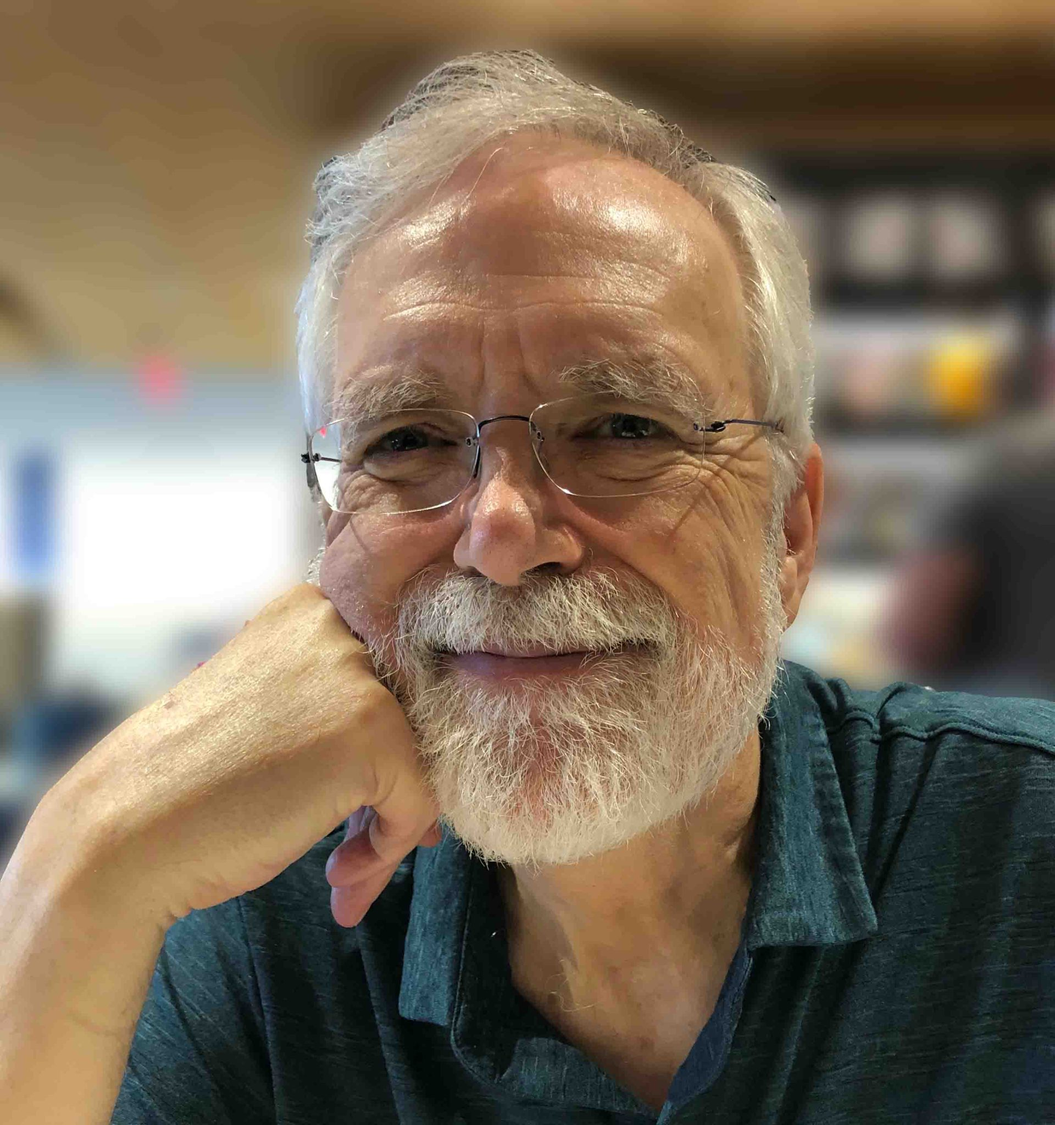
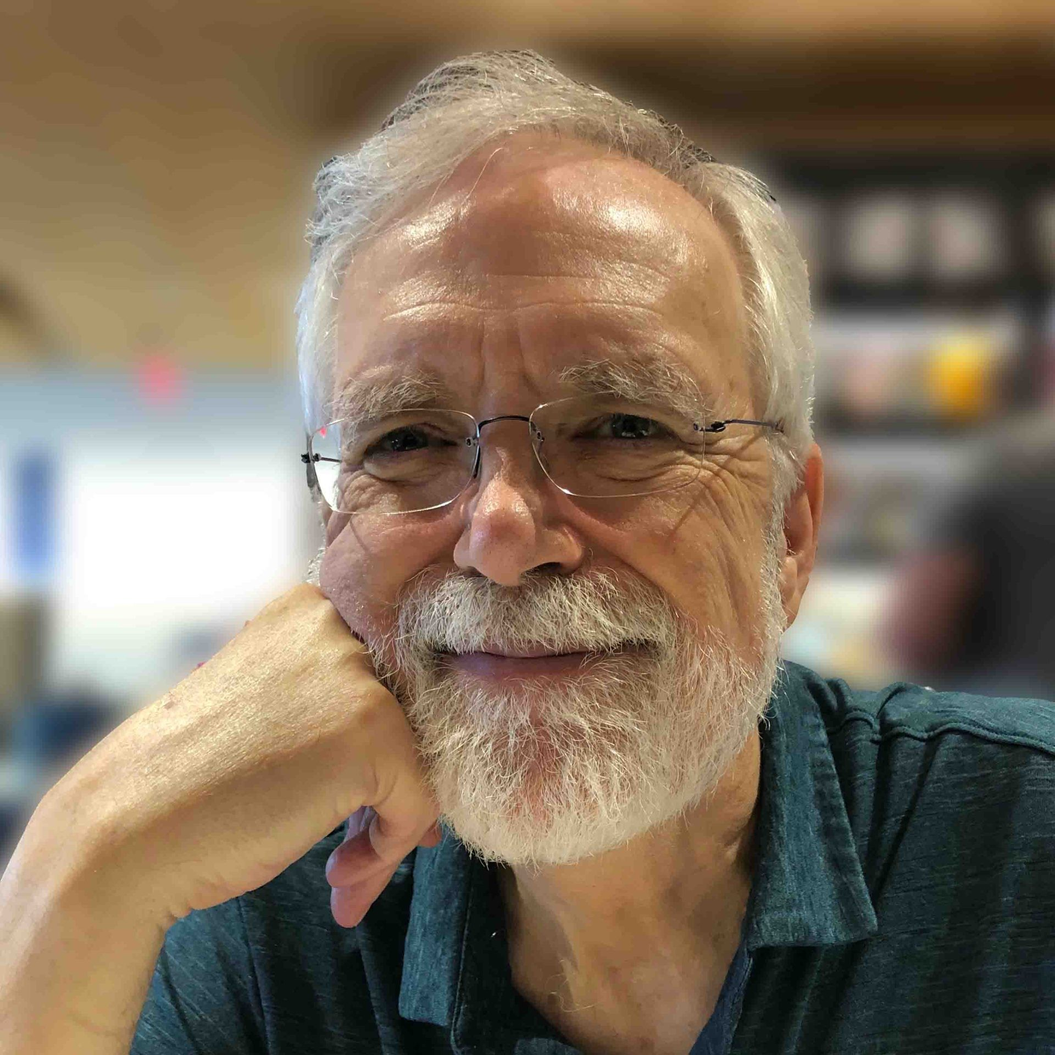
Add panelists, images

diff --git a/_includes/project-card.html b/_includes/project-card.html
@@ -1,4 +1,12 @@
 
+<style>
+.project-img { 
+    border-radius: 50%; 
+    width: 100%;
+    height: 100%;
+}
+</style>
+
 {% assign project = include.project %}
 
 {% if project.link %}
@@ -8,17 +16,15 @@
 {% endif %}
 <div class="card">
     <div class="card-body">
-        {% if project.image %}
-            {% assign imgurl = project.image %}
-            {% capture init %}{{ project.image | slice: 0,1 }}{% endcapture %}
+        {% if project.img %}
+            {% assign imgurl = project.img %}
+            {% capture init %}{{ project.img | slice: 0,1 }}{% endcapture %}
             {% if init == "/" %}
-                {% capture imgurl %}{{site.base}}{{project.image}}{% endcapture %}
+                {% capture imgurl %}{{site.base}}{{project.img}}{% endcapture %}
             {% endif %}
-            <a href="{{ proj-url }}">
-                <div class="text-center"> <!-- Wrap the image in a div with text-center class -->
-                    <img class="img-fluid mb-3" src="{{imgurl}}" alt="{{project.title}}"/>
-                </div>
-            </a>
+            <div class="text-center"> <!-- Wrap the image in a div with text-center class -->
+                <img class="project-img img-fluid mb-3" src="{{imgurl}}" alt="{{project.title}}"/>
+            </div>
         {% endif %}
         {% if project.notitle != true %}
             <h4 class="card-title">
@@ -33,9 +39,6 @@
         <div class="card-text">
             {{ project.description | markdownify }}
         </div>
-        {% if project.no-link != true or project.link %}
-            <a href="{{ proj-url }}"> Read more &raquo;</a>
-        {% endif %}
     </div>
     {% if project.people %}
         <div class="card-footer d-flex flex-row flex-wrap justify-content-center">

diff --git a/_panelists/mason.md b/_panelists/mason.md
@@ -5,13 +5,14 @@ description: Professor Emeritus at Carnegie Mellon University and Chief Scientis
 importance: 1
 category: panelists
 related_publications: true
+img: assets/img/mason.jpg
 ---
 
-<div class="row justify-content-sm-center">
+<!-- <div class="row justify-content-sm-center">
     <div class="col-sm-6 mt-3 mt-md-0">
         {% include figure.liquid path="assets/img/mason.jpg" title="" class="img-fluid rounded z-depth-1" %}
     </div>
-</div>
+</div> -->
 
 
 Matthew T. Mason is the Chief Scientist at Berkshire Grey, and Professor Emeritus at Carnegie Mellon University (CMU).

diff --git a/index.md b/index.md
@@ -16,7 +16,7 @@ Contact-rich robotics, where robots skillfully interact with the world through p
 We are excited to welcome the following expert guest panelists from across both industry and academia with representation from different genders, geographic locations, and career stages.
 
 <div class="card-columns">
-{% assign sorted_panelists = site.panelists | sort: "importance" %}
+{% assign sorted_panelists = site.panelists | sort: "title" %}
   <!-- Generate cards for each project -->
 {% for p in sorted_panelists %}
     {% include project-card.html project=p %}

diff --git a/_panelists/yifan.md b/_panelists/yifan.md
@@ -1,9 +1,10 @@
 ---
 layout: page
 title: Yifan Hou
-description: Postdoctoral Researcher at Stanford University
+description: Postdoc at Stanford University
 importance: 1
 category: panelists
 related_publications: true
+img: assets/img/yifan.jpg
 ---
 

diff --git a/_panelists/dmitry.md b/_panelists/dmitry.md
@@ -1,0 +1,10 @@
+---
+layout: page
+title: Dmitry Berenson
+description: Associate Professor at University of Michigan
+importance: 1
+category: panelists
+related_publications: true
+img: assets/img/dmitry.jpg
+---
+

diff --git a/_panelists/hae-won.md b/_panelists/hae-won.md
@@ -1,0 +1,10 @@
+---
+layout: page
+title: Hae-Won Park
+description: Associate Professor at KAIST, Korea
+importance: 1
+category: panelists
+related_publications: true
+img: assets/img/hae-won.jpg
+---
+

diff --git a/_panelists/marc.md b/_panelists/marc.md
@@ -1,0 +1,10 @@
+---
+layout: page
+title: Marc Toussaint
+description: Professor at TU Berlin, Germany
+importance: 1
+category: panelists
+related_publications: true
+img: assets/img/marc.jpeg
+---
+

diff --git a/_panelists/emo.md b/_panelists/emo.md
@@ -1,0 +1,10 @@
+---
+layout: page
+title: Emo Todorov
+description: Professor University of Washington
+importance: 1
+category: panelists
+related_publications: true
+img: assets/img/emo.jpg
+---
+

diff --git a/_panelists/aaron_ames.md b/_panelists/aaron_ames.md
@@ -1,0 +1,10 @@
+---
+layout: page
+title: Aaron Ames
+description: Professor at Caltech
+importance: 1
+category: panelists
+related_publications: true
+img: assets/img/aaron_ames.jpg
+---
+

diff --git a/_panelists/yuval.md b/_panelists/yuval.md
@@ -5,5 +5,6 @@ description: Simulation Lead (MuJoCo) at Google Deepmind (London)
 importance: 1
 category: panelists
 related_publications: true
+img: assets/img/yuval.jpg
 ---
 

diff --git a/_panelists/tao.md b/_panelists/tao.md
@@ -5,5 +5,6 @@ description: Research Scientist at the Robotics and AI Institute
 importance: 1
 category: panelists
 related_publications: true
+img: assets/img/tao.jpg
 ---
 

diff --git a/_panelists/nima.md b/_panelists/nima.md
@@ -5,5 +5,6 @@ description: Assistant Professor at the University of Michigan
 importance: 1
 category: panelists
 related_publications: true
+img: assets/img/nima.jpg
 ---
 
